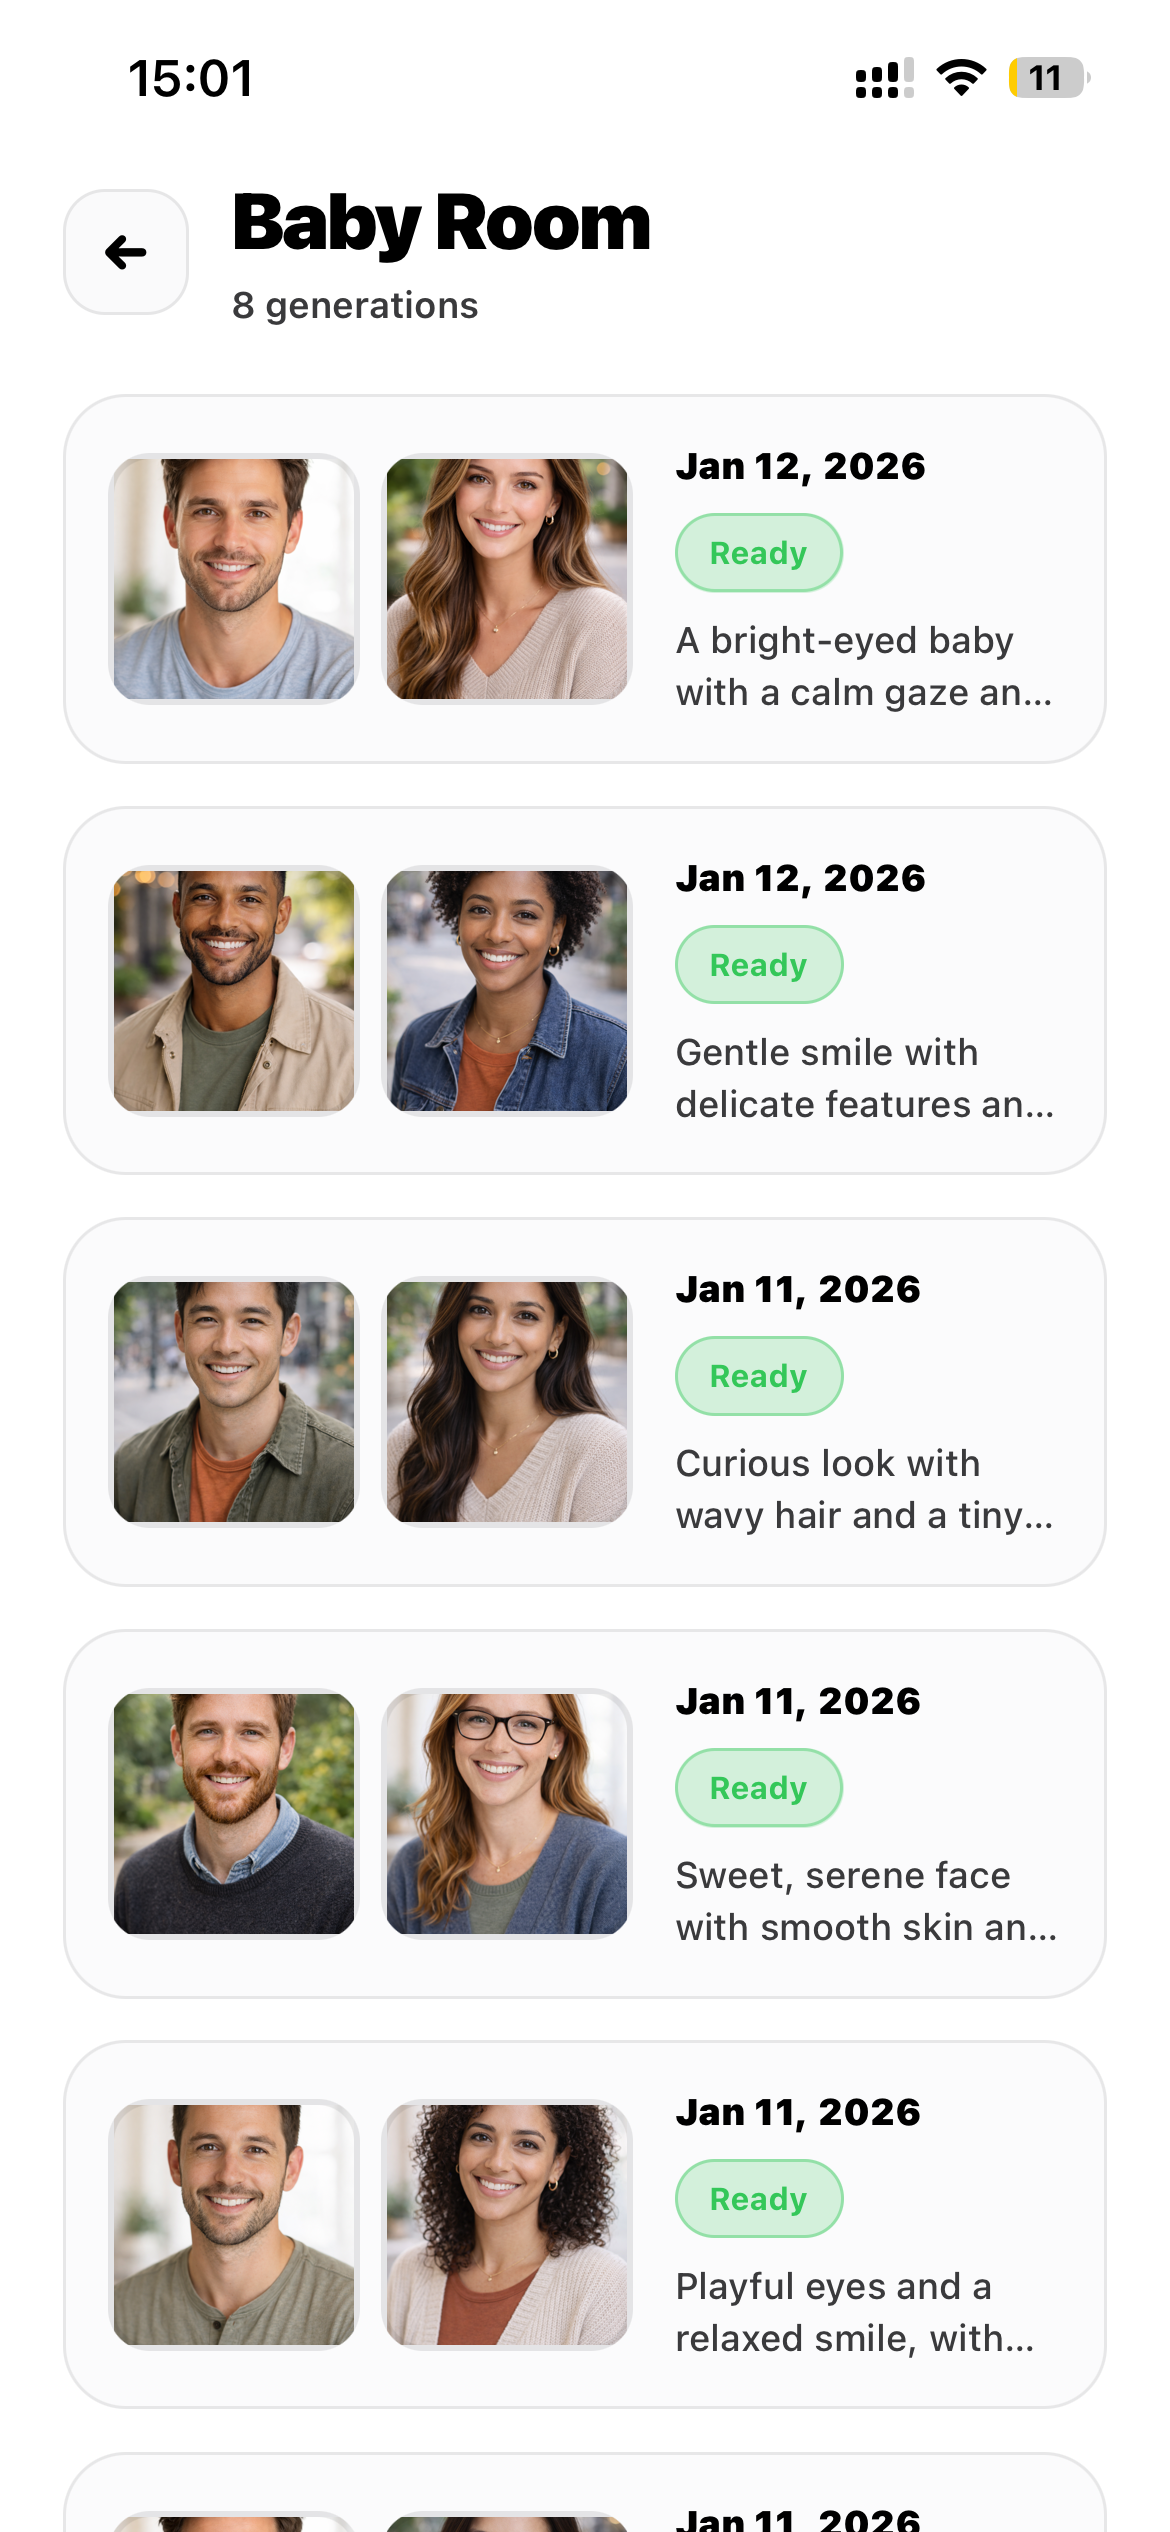
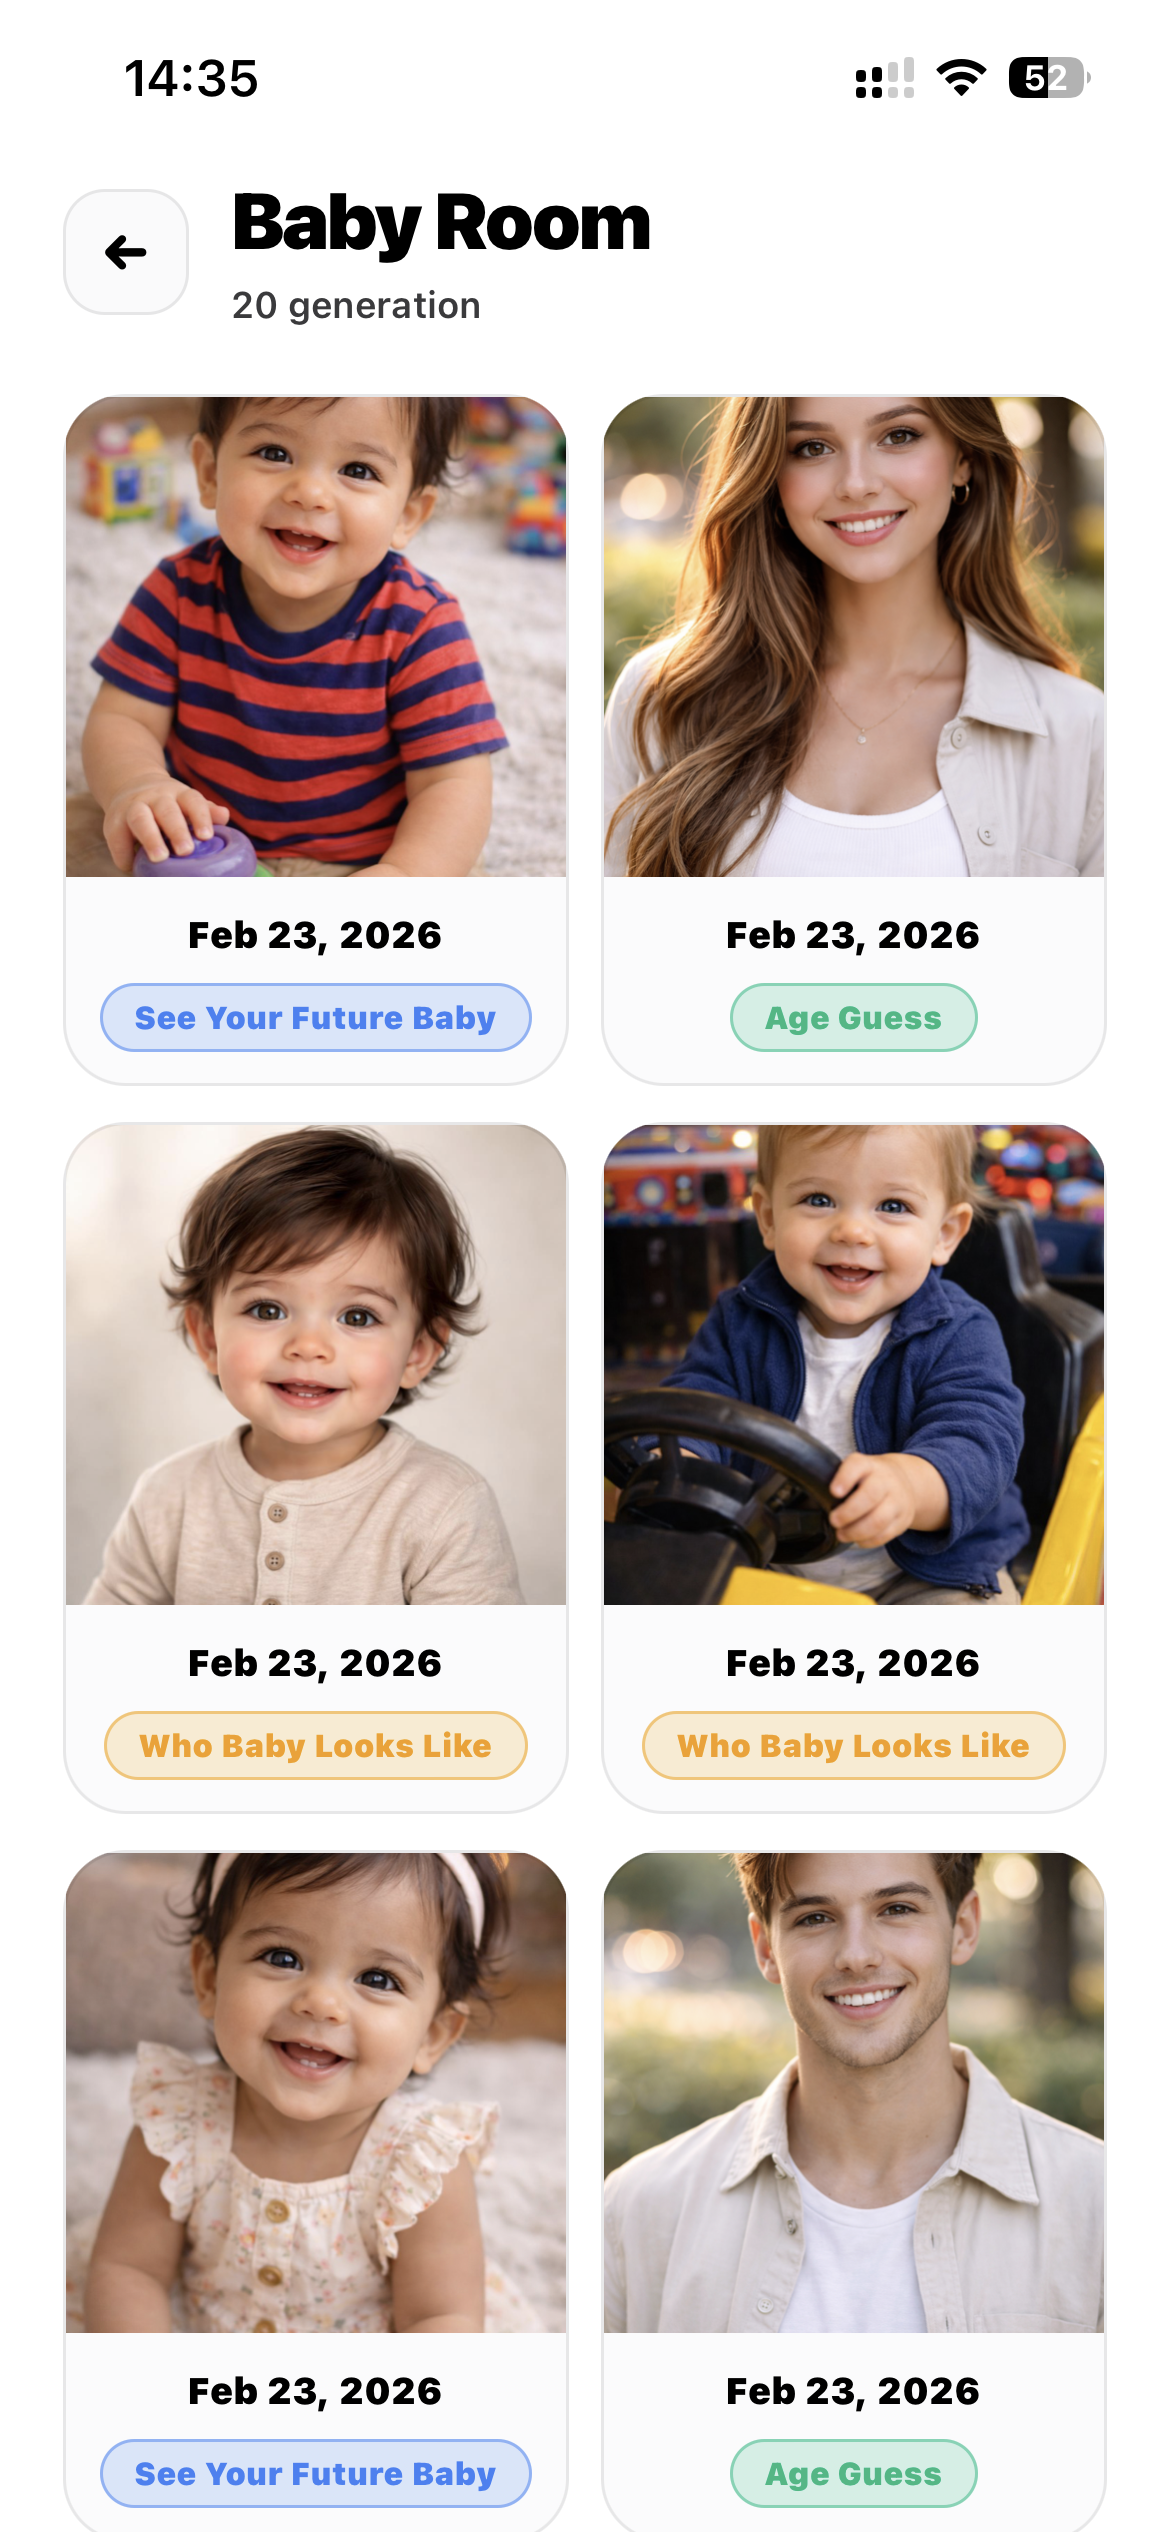
Update screenshots and copies for new age guess and looks like features

diff --git a/src/app/layout.tsx b/src/app/layout.tsx
@@ -17,7 +17,7 @@ export const metadata: Metadata = {
     template: `%s | ${site.app.name}`,
   },
   description:
-    'Upload two parent photos, set influence and gender, and generate a realistic baby portrait saved to your Baby Room.',
+    'Upload two parent photos, set influence, gender, and baby age, then generate a realistic baby portrait saved to your Baby Room.',
   keywords: [
     'baby generator',
     'ai baby photo',
@@ -39,7 +39,8 @@ export const metadata: Metadata = {
     locale: 'en_US',
     url: env.SITE_URL,
     title: `${site.app.name} - ${site.app.tagline}`,
-    description: 'Generate a baby portrait from two parent photos and save it to your Baby Room.',
+    description:
+      'Generate a baby portrait from two parent photos, choose baby age, and explore looks-like and age-guess tools.',
     siteName: site.app.name,
     images: [
       {
@@ -56,7 +57,8 @@ export const metadata: Metadata = {
     site: '@genkid',
     creator: '@hakim98bologna',
     title: `${site.app.name} - ${site.app.tagline}`,
-    description: 'Create a realistic baby portrait from two parent photos in seconds.',
+    description:
+      'Create a realistic baby portrait from two parent photos, choose baby age, and try looks-like and age-guess tools.',
     images: ['/images/icon.png'],
   },
   robots: {

diff --git a/src/content/features.ts b/src/content/features.ts
@@ -13,9 +13,21 @@ export const features = [
   },
   {
     icon: '👶',
-    title: 'Gender Selection',
+    title: 'Gender & Age Selection',
     description:
-      'Choose to generate a baby boy, baby girl, or let our AI surprise you with the most likely outcome.',
+      "Choose the baby's gender, select the baby age before generation, or let our AI surprise you with the most likely outcome.",
+  },
+  {
+    icon: '🧬',
+    title: 'Looks-Like Estimator',
+    description:
+      'Estimate what percentage a baby looks like each parent with a simple side-by-side resemblance breakdown.',
+  },
+  {
+    icon: '🎂',
+    title: 'Age Guess',
+    description:
+      "Upload a photo and let GenKid estimate a person's age in seconds.",
   },
   {
     icon: '🖼',

diff --git a/src/content/gallery.ts b/src/content/gallery.ts
@@ -20,12 +20,23 @@ export const gallery = [
     src: '/screenshots/generating_step3.PNG',
   },
   {
-    id: 5,
-    alt: 'Baby Room gallery of saved generations',
-    src: '/screenshots/babyroom.PNG',
+    id: 6,
+    alt: 'Looks-like estimator showing what percentage a baby resembles each parent',
+    src: '/screenshots/looks_like.PNG',
   },
   {
-    id: 6,
+    id: 7,
+    alt: "Age guess tool estimating a person's age from their photo",
+    src: '/screenshots/age_guess.PNG',
+  },
+  {
+    id: 5,
+    alt: 'Baby Room gallery of saved generations',
+    src: '/screenshots/babyroom.png',
+  },
+
+  {
+    id: 8,
     alt: 'Dark mode for late-night chats',
     src: '/screenshots/dark.PNG',
   },

diff --git a/src/content/how.ts b/src/content/how.ts
@@ -9,7 +9,7 @@ export const how = [
     number: 2,
     title: 'Adjust Settings',
     description:
-      "Set parent influence levels and choose the baby's gender. Experiment with different combinations.",
+      "Set parent influence levels, choose the baby's gender, and select the baby age before generation.",
   },
   {
     number: 3,
